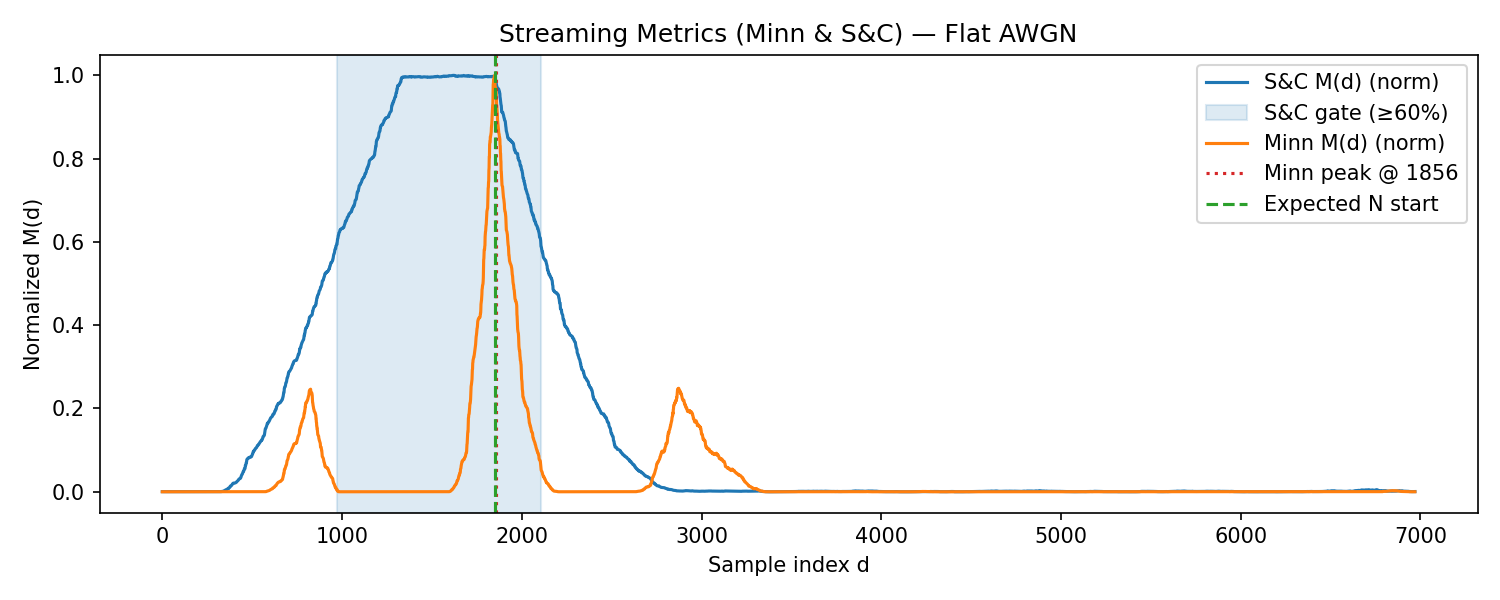
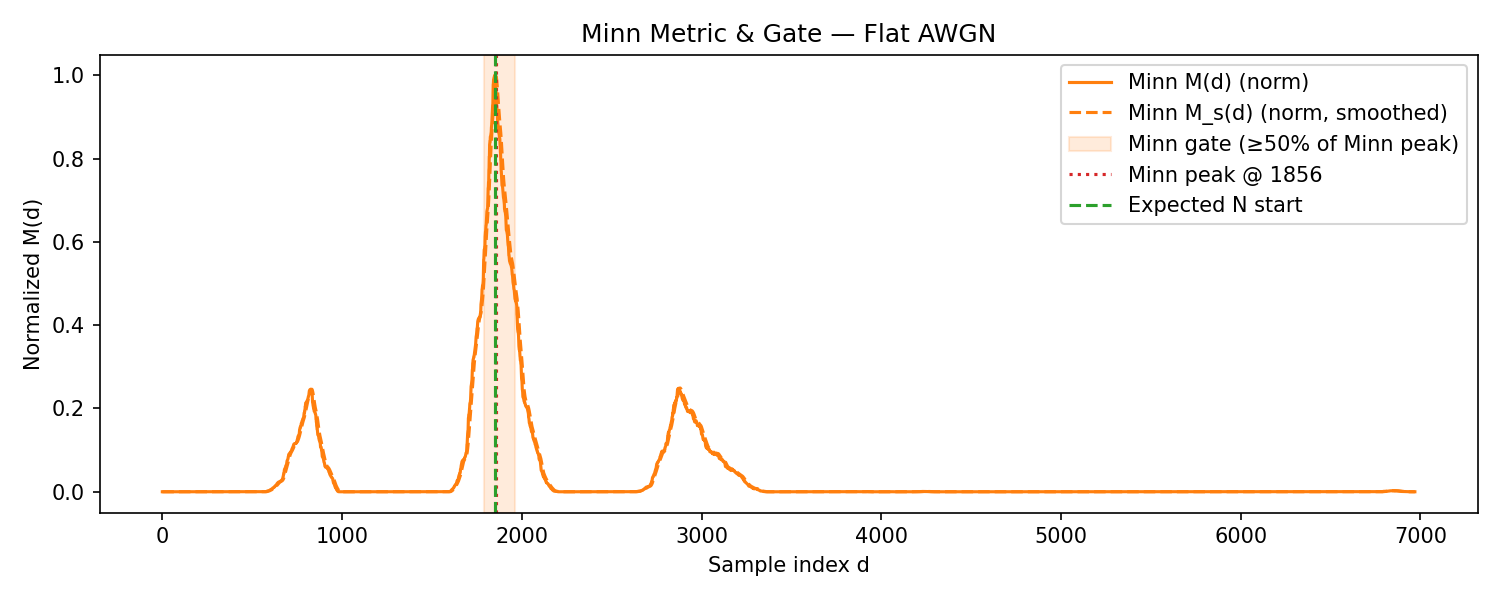
added new simplified minn only approach

diff --git a/combined_sc_min.py b/combined_sc_min.py
@@ -10,6 +10,7 @@ from core import (
     TX_PRE_PAD_SAMPLES,
     centered_subcarrier_indices,
     allocate_subcarriers,
+    spectrum_to_time_domain,
     add_cyclic_prefix,
     plot_time_series,
     compute_channel_peak_offset,
@@ -18,6 +19,7 @@ from core import (
     ofdm_fft_used,
     ls_channel_estimate,
     equalize,
+    remove_common_phase,
     evm_rms_db,
     plot_constellation,
     SAMPLE_RATE_HZ,
@@ -111,6 +113,57 @@ def minn_streaming_metric(rx: np.ndarray) -> tuple[np.ndarray, np.ndarray, np.nd
     return M, P_sum, R_sum
 
 
+def schmidl_cox_streaming_metric(rx: np.ndarray, symbol_len: int = N_FFT) -> tuple[np.ndarray, np.ndarray, np.ndarray]:
+    """Compute Schmidl & Cox timing metric for a symbol with two identical halves.
+    
+    The metric forms a plateau when the sliding window sits over the repeated
+    halves, which can be used to gate a finer peak search (e.g., Minn metric).
+    
+    Args:
+        rx: Received samples, shape (branches, L) or (L,)
+        symbol_len: Total length of the repeated symbol (default: N_FFT)
+    
+    Returns:
+        M_sc: Timing metric magnitude
+        P_sum: Complex correlation sum between halves
+        R_sum: Energy sum across halves
+    """
+    rx = np.asarray(rx)
+    if rx.ndim == 1:
+        rx = rx[np.newaxis, :]
+    
+    num_branches, L = rx.shape
+    half = symbol_len // 2
+    if half == 0 or symbol_len > L:
+        return np.zeros(0), np.zeros(0, dtype=np.complex128), np.zeros(0)
+    
+    out_len = L - symbol_len + 1
+    P_sum = np.zeros(out_len, dtype=np.complex128)
+    R_sum = np.zeros(out_len, dtype=np.float64)
+    
+    for b in range(num_branches):
+        x = rx[b]
+        Pb = np.empty(out_len, dtype=np.complex128)
+        Rb = np.empty(out_len, dtype=np.float64)
+        
+        for d in range(out_len):
+            first = x[d : d + half]
+            second = x[d + half : d + symbol_len]
+            
+            P = np.sum(first * np.conj(second))
+            R = np.sum(np.abs(first) ** 2 + np.abs(second) ** 2)
+            
+            Pb[d] = P
+            Rb[d] = R
+        
+        P_sum += Pb
+        R_sum += Rb
+    
+    eps = 1e-12
+    M_sc = (np.abs(P_sum) ** 2) / (np.maximum(R_sum, eps) ** 2)
+    return M_sc, P_sum, R_sum
+
+
 def _trailing_average(x: np.ndarray, win: int) -> np.ndarray:
     """Compute trailing moving average using only past samples (streaming-friendly)."""
     if win <= 1:
@@ -127,61 +180,59 @@ def _trailing_average(x: np.ndarray, win: int) -> np.ndarray:
     return y
 
 
+def _streaming_peak_detector(metric: np.ndarray, gate_mask: np.ndarray) -> int | None:
+    """Return peak index using only past samples within an active gate."""
+    if gate_mask.shape[0] != metric.shape[0]:
+        raise ValueError("gate_mask must match metric length")
+    
+    best_idx: int | None = None
+    best_val = -np.inf
+    gate_active = False
+    
+    for idx, val in enumerate(metric):
+        gate_flag = gate_mask[idx]
+        
+        if gate_flag:
+            if not gate_active:
+                gate_active = True
+                best_val = val
+                best_idx = idx
+            else:
+                if val > best_val:
+                    best_val = val
+                    best_idx = idx
+        elif gate_active:
+            return best_idx
+    
+    if gate_active or best_idx is not None:
+        return best_idx
+    return None
+
+
 def find_minn_peak(
     M: np.ndarray,
     smooth_win: int = 8,
-    gate_threshold: float = 0.5,
+    gate_mask: np.ndarray | None = None,
     search_bounds: tuple[int, int] | None = None,
-) -> tuple[int, np.ndarray, np.ndarray]:
+) -> int:
     """Find timing from Minn metric.
     
     The Minn metric creates a pattern where the peak occurs when the
     sliding window aligns with [A, A, -A, -A]. We find this peak position.
     """
     if M.size == 0:
-        raise ValueError("Minn metric is empty")
+        return 0
     
     metric = np.asarray(M, dtype=float)
-
-    # Smooth using trailing average to keep streaming behavior (no future look-ahead)
-    w = max(1, smooth_win)
-    Ms = _trailing_average(np.maximum(metric, 0.0), win=w)
     
-    max_ms = float(np.max(Ms))
-    if max_ms <= 0.0:
-        raise ValueError("Minn metric did not produce a positive peak")
-    gate_level = gate_threshold * max_ms
-    gate_mask = Ms >= gate_level
+    if gate_mask is None:
+        raise ValueError("Minn peak detection requires S&C gate mask")
+    if gate_mask.shape[0] != metric.shape[0]:
+        raise ValueError("gate_mask must match metric length")
     
-    # Ensure the gate is contiguous around the best peak by selecting the largest component
-    if np.any(gate_mask):
-        in_segment = False
-        best_span = (0, 0)
-        best_len = 0
-        start_idx = 0
-        for idx, flag in enumerate(gate_mask):
-            if flag and not in_segment:
-                in_segment = True
-                start_idx = idx
-            elif not flag and in_segment:
-                in_segment = False
-                span_len = idx - start_idx
-                if span_len > best_len:
-                    best_len = span_len
-                    best_span = (start_idx, idx)
-        if in_segment:
-            span_len = gate_mask.size - start_idx
-            if span_len > best_len:
-                best_span = (start_idx, gate_mask.size)
-                best_len = span_len
-        if best_len > 0:
-            new_gate = np.zeros_like(gate_mask)
-            new_gate[best_span[0] : best_span[1]] = True
-            gate_mask = new_gate
-    else:
-        gate_mask = np.zeros_like(gate_mask, dtype=bool)
+    # Build boolean masks combining supplied gate and optional bounds
+    search_mask = gate_mask.astype(bool, copy=True)
     
-    # Apply optional search bounds
     if search_bounds is not None:
         start = max(0, search_bounds[0])
         end = min(M.size, search_bounds[1])
@@ -189,31 +240,33 @@ def find_minn_peak(
             start, end = 0, M.size
         bounds_mask = np.zeros_like(metric, dtype=bool)
         bounds_mask[start:end] = True
-        gate_mask &= bounds_mask
+        search_mask &= bounds_mask
     
-    if not np.any(gate_mask):
-        # Fall back to the global maximum if the threshold doesn't produce a gate
-        peak_idx = int(np.argmax(Ms))
-        gate_mask = np.zeros_like(gate_mask, dtype=bool)
-        gate_mask[peak_idx] = True
-        return peak_idx, gate_mask, Ms
+    if not np.any(search_mask):
+        raise ValueError("Minn peak detector received empty gate region")
     
-    candidate_idx = np.flatnonzero(gate_mask)
-    peak_rel = int(np.argmax(Ms[candidate_idx]))
-    peak_idx = int(candidate_idx[peak_rel])
-    return peak_idx, gate_mask, Ms
+    # Smooth using trailing average to keep streaming behavior (no future look-ahead)
+    w = max(1, smooth_win)
+    Ms = _trailing_average(np.maximum(metric, 0.0), win=w)
+    
+    peak = _streaming_peak_detector(
+        Ms,
+        gate_mask=search_mask,
+    )
+    if peak is not None:
+        return peak
+    
+    raise RuntimeError("Streaming peak detector did not produce a peak")
 
 
 # Detector and channel parameters (script-local)
 SNR_DB = 10.0
 CFO_HZ = 1000.0
 SMOOTH_WIN = 16  # samples for smoothing M(d) before peak detection
-
-# Minn-only gating parameters
-MINN_GATE_THRESHOLD = 0.5  # fixed fraction of the Minn peak used for gating
+SC_GATE_THRESHOLD = 0.6  # normalized S&C metric threshold for gate
 
 # Base output directory
-PLOTS_BASE_DIR = Path("plots") / "minn"
+PLOTS_BASE_DIR = Path("plots") / "combined_sc_minn"
 
 
 def run_simulation(channel_name: str | None, plots_subdir: str):
@@ -276,23 +329,49 @@ def run_simulation(channel_name: str | None, plots_subdir: str):
     # Apply CFO to simulate LO mismatch at the receiver
     rx_samples = apply_cfo(rx_samples, CFO_HZ, SAMPLE_RATE_HZ)
     
-    # Detection metrics (Minn only)
+    # Detection metrics (Minn + Schmidl & Cox)
     M, P_sum, R_sum = minn_streaming_metric(rx_samples)
-    peak_position, minn_gate_mask, M_smooth = find_minn_peak(
+    M_sc, P_sc, R_sc = schmidl_cox_streaming_metric(rx_samples)
+    
+    sc_gate_mask: np.ndarray | None = None
+    sc_gate_span: tuple[int, int] | None = None
+    sc_norm: np.ndarray | None = None
+    if M_sc.size > 0:
+        max_sc = float(np.max(M_sc))
+        if max_sc > 0:
+            sc_norm = M_sc / max_sc
+            sc_gate_mask = sc_norm >= SC_GATE_THRESHOLD
+        else:
+            sc_gate_mask = M_sc >= SC_GATE_THRESHOLD
+        if sc_gate_mask is not None and not np.any(sc_gate_mask):
+            # Guarantee a valid gate by seeding it with the strongest S&C sample.
+            gate_idx = int(np.argmax(M_sc))
+            sc_gate_mask = np.zeros_like(sc_gate_mask, dtype=bool)
+            sc_gate_mask[gate_idx] = True
+        if sc_gate_mask is not None and np.any(sc_gate_mask):
+            first_idx = int(np.argmax(sc_gate_mask))
+            last_idx = int(sc_gate_mask.size - np.argmax(sc_gate_mask[::-1]) - 1)
+            sc_gate_span = (first_idx, last_idx + 1)
+
+    if sc_gate_mask is None:
+        raise RuntimeError("Schmidl & Cox gate is required for Minn detector")
+
+    peak_position = find_minn_peak(
         M,
         smooth_win=SMOOTH_WIN,
-        gate_threshold=MINN_GATE_THRESHOLD,
+        gate_mask=sc_gate_mask,
         search_bounds=None,
     )
     
     # The Minn peak aligns to the start of the N-length symbol (CP end)
     detected_start = peak_position
     
-    minn_gate_segments = mask_segments(minn_gate_mask)
-    max_m = float(np.max(M)) if M.size > 0 else 0.0
-    minn_norm: np.ndarray | None = M / max_m if max_m > 0 else None
-    max_ms = float(np.max(M_smooth)) if M_smooth.size > 0 else 0.0
-    minn_smooth_norm: np.ndarray | None = M_smooth / max_ms if max_ms > 0 else None
+    minn_norm: np.ndarray | None = None
+    max_m = 0.0
+    if M.size > 0:
+        max_m = float(np.max(M))
+        if max_m > 0:
+            minn_norm = M / max_m
     
     # Ground-truth alignment helpers
     channel_peak_offset = compute_channel_peak_offset(channel_impulse_response)
@@ -312,24 +391,29 @@ def run_simulation(channel_name: str | None, plots_subdir: str):
     channel_desc = f"Measured CIR '{channel_name}'" if channel_name else "Flat AWGN"
     
     plt.figure(figsize=(10, 4))
+    if sc_norm is not None:
+        plt.plot(sc_norm, label="S&C M(d) (norm)", color="tab:blue", linestyle="-")
+        if sc_gate_mask is not None and np.any(sc_gate_mask):
+            for idx, (seg_start, seg_end) in enumerate(mask_segments(sc_gate_mask)):
+                gate_label = f"S&C gate (≥{SC_GATE_THRESHOLD:.0%})" if idx == 0 else None
+                plt.axvspan(seg_start, seg_end, color="tab:blue", alpha=0.15, label=gate_label)
+    elif M_sc.size > 0:
+        plt.plot(M_sc, label="S&C M(d)", color="tab:blue", linestyle="-")
+        if sc_gate_mask is not None and np.any(sc_gate_mask):
+            for idx, (seg_start, seg_end) in enumerate(mask_segments(sc_gate_mask)):
+                gate_label = f"S&C gate (≥{SC_GATE_THRESHOLD:.0%})" if idx == 0 else None
+                plt.axvspan(seg_start, seg_end, color="tab:blue", alpha=0.15, label=gate_label)
     if minn_norm is not None:
         plt.plot(minn_norm, label="Minn M(d) (norm)", color="tab:orange")
     else:
         plt.plot(M, label="Minn M(d)", color="tab:orange")
-    if minn_smooth_norm is not None:
-        plt.plot(minn_smooth_norm, label="Minn M_s(d) (norm, smoothed)", color="tab:orange", linestyle="--")
-    for idx, (seg_start, seg_end) in enumerate(minn_gate_segments):
-        gate_label = (
-            f"Minn gate (≥{MINN_GATE_THRESHOLD:.0%} of Minn peak)" if idx == 0 else None
-        )
-        plt.axvspan(seg_start, seg_end, color="tab:orange", alpha=0.15, label=gate_label)
     plt.axvline(peak_position, color="tab:red", linestyle=":", label=f"Minn peak @ {peak_position}")
     plt.axvline(expected_n_start, color="tab:green", linestyle="--", label="Expected N start")
     plt.xlabel("Sample index d")
-    plt.ylabel("Normalized M(d)" if minn_norm is not None else "M(d)")
-    plt.title(f"Minn Metric & Gate — {channel_desc}")
+    plt.ylabel("Normalized M(d)" if minn_norm is not None or sc_norm is not None else "M(d)")
+    plt.title(f"Streaming Metrics (Minn & S&C) — {channel_desc}")
     plt.legend(loc="upper right")
-    if minn_norm is not None:
+    if minn_norm is not None or sc_norm is not None:
         plt.ylim(-0.05, 1.05)
     plt.tight_layout()
     plt.savefig(metric_plot_path, dpi=150)
@@ -342,9 +426,10 @@ def run_simulation(channel_name: str | None, plots_subdir: str):
     if rx_samples.ndim > 1 and rx_samples.shape[0] > 1:
         for idx, branch in enumerate(rx_samples):
             axes[0].plot(np.abs(branch), alpha=0.3, linewidth=0.8)
-    for idx, (seg_start, seg_end) in enumerate(minn_gate_segments):
-        gate_label = "Minn gate" if idx == 0 else None
-        axes[0].axvspan(seg_start, seg_end, color="tab:orange", alpha=0.18, label=gate_label)
+    if sc_gate_mask is not None and np.any(sc_gate_mask):
+        for idx, (seg_start, seg_end) in enumerate(mask_segments(sc_gate_mask)):
+            gate_label = "S&C gate" if idx == 0 else None
+            axes[0].axvspan(seg_start, seg_end, color="tab:blue", alpha=0.2, label=gate_label)
     axes[0].axvline(true_cp_start, color="tab:purple", linestyle="--", label="CP start (true)")
     axes[0].axvline(expected_n_start, color="tab:green", linestyle="--", label="N start (exp)")
     axes[0].axvline(detected_start, color="tab:red", linestyle=":", label="Detected start")
@@ -352,24 +437,25 @@ def run_simulation(channel_name: str | None, plots_subdir: str):
     axes[0].set_title(f"Received Magnitude and Detected Start (Minn, {channel_desc})")
     axes[0].legend(loc="upper right")
     
+    if sc_norm is not None:
+        axes[1].plot(sc_norm, label="S&C M(d) (norm)", color="tab:blue")
+        if sc_gate_mask is not None and np.any(sc_gate_mask):
+            for seg_start, seg_end in mask_segments(sc_gate_mask):
+                axes[1].axvspan(seg_start, seg_end, color="tab:blue", alpha=0.12)
+    elif M_sc.size > 0:
+        axes[1].plot(M_sc, label="S&C M(d)", color="tab:blue")
+        if sc_gate_mask is not None and np.any(sc_gate_mask):
+            for seg_start, seg_end in mask_segments(sc_gate_mask):
+                axes[1].axvspan(seg_start, seg_end, color="tab:blue", alpha=0.12)
     if minn_norm is not None:
         axes[1].plot(minn_norm, label="Minn M(d) (norm)", color="tab:orange")
     else:
         axes[1].plot(M, label="Minn M(d)", color="tab:orange")
-    if minn_smooth_norm is not None:
-        axes[1].plot(
-            minn_smooth_norm,
-            label="Minn M_s(d) (norm, smoothed)",
-            color="tab:orange",
-            linestyle="--",
-        )
-    for seg_start, seg_end in minn_gate_segments:
-        axes[1].axvspan(seg_start, seg_end, color="tab:orange", alpha=0.12)
     axes[1].axvline(peak_position, color="tab:red", linestyle=":", label=f"Minn peak @ {peak_position}")
     axes[1].axvline(expected_n_start, color="tab:green", linestyle="--", label="Expected N start")
     axes[1].set_xlabel("Sample index d")
-    axes[1].set_ylabel("Normalized M(d)" if minn_norm is not None else "M(d)")
-    axes[1].set_title("Timing Metrics (Minn)")
+    axes[1].set_ylabel("Normalized M(d)" if minn_norm is not None or sc_norm is not None else "M(d)")
+    axes[1].set_title("Timing Metrics (Minn & S&C)")
     if minn_norm is not None or sc_norm is not None:
         axes[1].set_ylim(-0.05, 1.05)
     axes[1].legend(loc="upper right")
@@ -434,15 +520,15 @@ def run_simulation(channel_name: str | None, plots_subdir: str):
     print(f"  Detected Minn peak at d={peak_position}")
     print(f"  Expected N start at d={expected_n_start}")
     print(f"  Timing error: {timing_error} samples ({abs(timing_error)/N_FFT*100:.1f}% of symbol)")
-    if minn_gate_segments:
-        gate_start = minn_gate_segments[0][0]
-        gate_end = minn_gate_segments[-1][1]
+    if sc_gate_span is not None:
+        gate_start, gate_end = sc_gate_span
         print(
-            f"  Minn gate window: [{gate_start}, {gate_end}) "
-            f"(threshold ≥{MINN_GATE_THRESHOLD:.0%} of Minn peak, span {gate_end - gate_start} samples)",
+            f"  S&C gate window: [{gate_start}, {gate_end}) (norm ≥ {SC_GATE_THRESHOLD:.0%}, span {gate_end - gate_start} samples)",
         )
-    else:
-        print("  Minn gate not triggered (metric never exceeded threshold)")
+    elif sc_gate_mask is not None:
+        print(
+            f"  S&C gate not triggered (no samples reached threshold {SC_GATE_THRESHOLD:.0%})",
+        )
     print(f"\nCarrier Frequency Offset:")
     print(f"  Applied CFO: {CFO_HZ} Hz")
     print(f"  Estimated CFO from CP: {cfo_est_hz:.2f} Hz")
